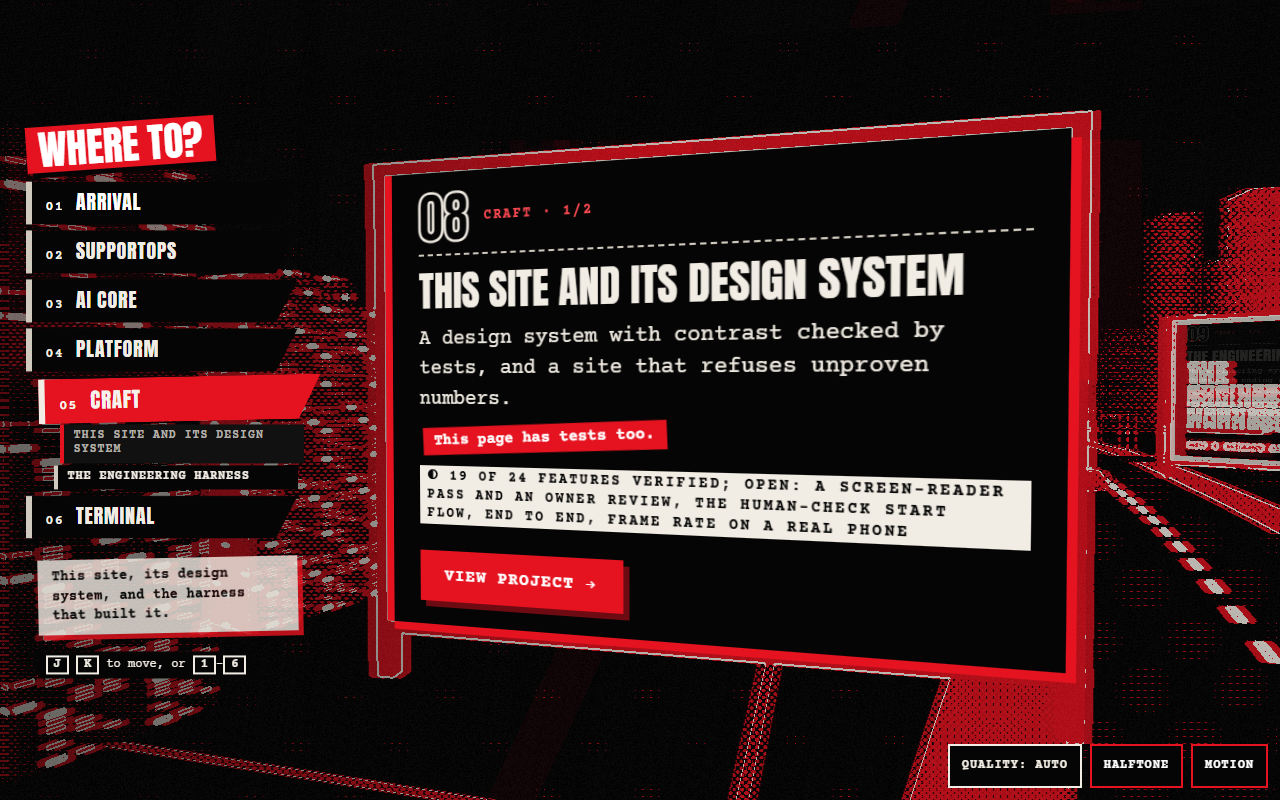
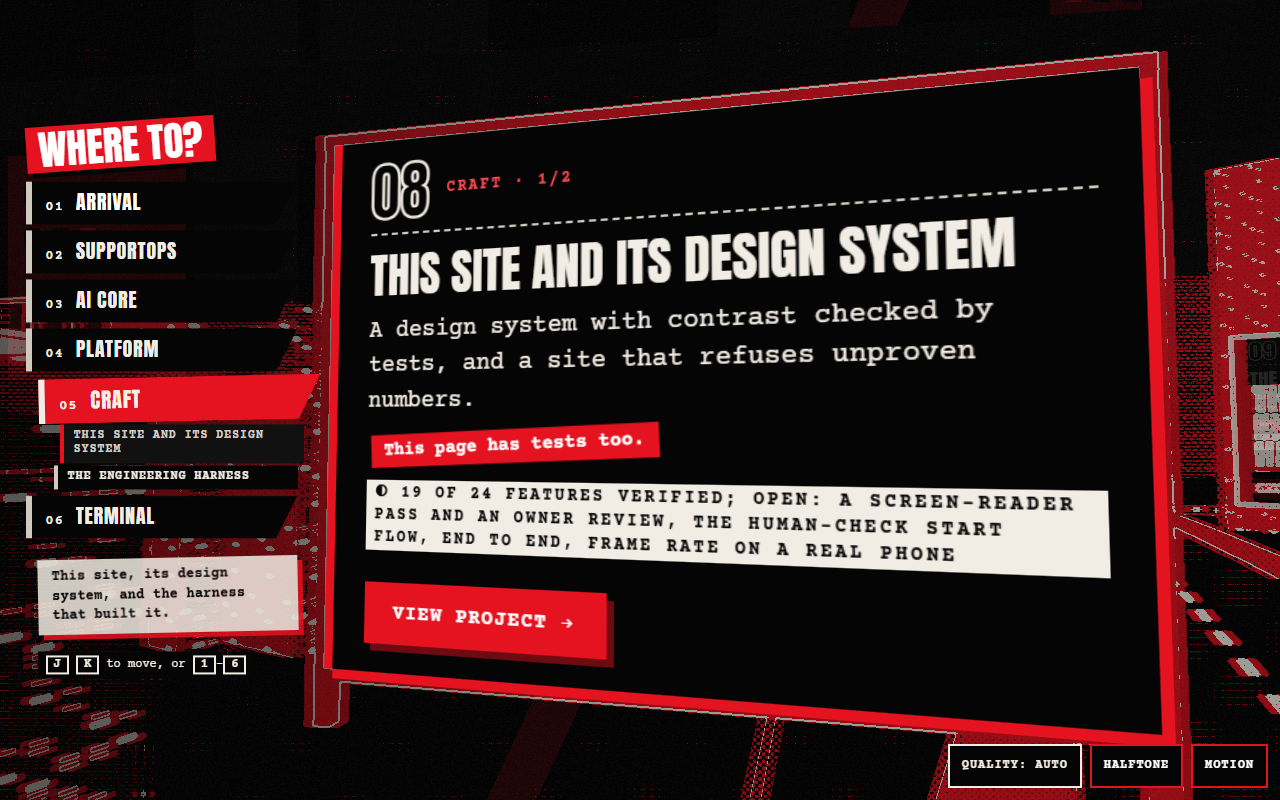
feat(scene): hang the cards on building walls, roofs and posts

diff --git a/src/scene/world.ts b/src/scene/world.ts
@@ -1,7 +1,7 @@
 import * as THREE from "three";
 import { V3, bar, fit, mergeGeometries, tick, tint } from "./geometry";
 import { loadModel } from "./loaders";
-import { BOARD_BEAM_DEPTH, BOARD_BEAM_Z, BOARD_POST_DEPTH, BOARD_POST_Z, ROAD_EXTRA, trainLead } from "./layout";
+import { BOARD_BEAM_DEPTH, BOARD_BEAM_Z, BOARD_POST_DEPTH, BOARD_POST_Z, BOARD_WIDTH, MOUNT_SPEC, ROAD_EXTRA, mountOf, trainLead } from "./layout";
 import { cardSide, type Frame, type Rail } from "./rail";
 import { truckFallback } from "./symbols";
 import type { Palette } from "./tokens";
@@ -47,12 +47,10 @@ export interface World {
 }
 
 /** World width of a board, in units, before it is fitted to its card; the board is never taller than BOARD_MAX_HEIGHT. */
-export const BILLBOARD_WIDTH = 25;
+export const BILLBOARD_WIDTH = BOARD_WIDTH;
 /** Height over width: the card is 640 by 460 px (src/styles/site.css), so the board has the same proportions. */
 const BILLBOARD_RATIO = 460 / 640;
 const BOARD_MAX_HEIGHT = 30;
-/** The board's lower edge above the street. */
-const BOARD_BOTTOM = 2.5;
 
 type Part = THREE.BufferGeometry;
 
@@ -233,6 +231,8 @@ export async function buildWorld(c: WorldContext): Promise<World> {
       const x = f.p.x + f.R.x * s * lat;
       const z = f.p.z + f.R.z * s * lat + (rnd() - 0.5) * 5;
       const ry = yaw(f.T);
+      // A tower must not pierce the building a board hangs on (wall and roof mounts stand beside the avenue ahead of their stop).
+      if (stops.some((_, k) => mountOf(k) !== "post" && cardSide(k) === s && Math.abs(uPick - rail.u(k, 0.45)) * rail.length < 30 + dd / 2)) continue;
       if (o.clear !== false && crossUs.some((cu) => Math.abs(uPick - cu) * rail.length < CROSS_HALF + SIDEWALK + Math.max(dd, 9) / 2 + 3)) continue;
       n += 1;
       if (o.realEvery && (n - 1) % o.realEvery === 0 && landmark(d, x, z, -f.R.x * s, -f.R.z * s, h)) {
@@ -775,26 +775,41 @@ export async function buildWorld(c: WorldContext): Promise<World> {
     group.add(panel, ...posts, ...beams);
     scene.add(group);
     const board: Board = { group, panel, posts, beams, repaint: painted.paint, width: 1, height: 1 };
-    fitBoard(board, BILLBOARD_WIDTH, BILLBOARD_RATIO);
+    const mount = mountOf(k);
+    fitBoard(board, BILLBOARD_WIDTH, BILLBOARD_RATIO, MOUNT_SPEC[mount].bottom, mount);
+    // A wall or a roof mount stands on a building: its footprint is behind the board (local -z is along the avenue, away from the camera).
+    if (mount !== "post") {
+      const bottom = MOUNT_SPEC[mount].bottom;
+      const depth = mount === "roof" ? 16 : 24;
+      const height = mount === "roof" ? bottom : bottom + board.height + (mount === "wall" ? 9 : 22);
+      const back = 1 + depth / 2;
+      const ry = group.rotation.y;
+      solid(stops[k]!.district, board.width + 2, height, depth, anchor.x - Math.sin(ry) * back, 0, anchor.z - Math.cos(ry) * back, ry, mount === "roof" ? grey(0.26) : grey(0.2));
+      // A beacon on the corner of the wall, a red band under the roof board.
+      beacon(anchor.x - Math.sin(ry) * back, height + 0.4, anchor.z - Math.cos(ry) * back);
+    }
     return board;
   });
-  function fitBoard(b: Board, baseWidth: number, ratio: number) {
+  function fitBoard(b: Board, baseWidth: number, ratio: number, bottom: number, mount: "facade" | "wall" | "roof" | "post") {
     // Keep the card's proportions; a tall card makes a narrower board so it never grows past the screen.
     const h = Math.min(BOARD_MAX_HEIGHT, baseWidth * ratio);
     const w = h / ratio;
     b.width = w;
     b.height = h;
-    const mid = BOARD_BOTTOM + h / 2;
+    const mid = bottom + h / 2;
     b.panel.scale.set(w, h, 1);
     b.panel.position.set(0, mid, 0);
+    // Posts run from the ground (post) or from the roof (roof); a wall or facade mount has none, the wall holds the board.
+    const footing = mount === "roof" ? bottom : 0;
     b.posts.forEach((post, i) => {
       const side = i ? 1 : -1;
-      post.scale.set(0.7, BOARD_BOTTOM + h, BOARD_POST_DEPTH);
-      post.position.set(side * (w / 2 + 0.35), (BOARD_BOTTOM + h) / 2, BOARD_POST_Z);
+      post.visible = mount === "post" || mount === "roof";
+      post.scale.set(0.7, bottom + h - footing, BOARD_POST_DEPTH);
+      post.position.set(side * (w / 2 + 0.35), footing + (bottom + h - footing) / 2, BOARD_POST_Z);
     });
     b.beams.forEach((beam, i) => {
       beam.scale.set(w + 1.4, 0.6, BOARD_BEAM_DEPTH);
-      beam.position.set(0, i ? BOARD_BOTTOM + h + 0.3 : BOARD_BOTTOM - 0.3, BOARD_BEAM_Z);
+      beam.position.set(0, i ? bottom + h + 0.3 : bottom - 0.3, BOARD_BEAM_Z);
     });
     b.group.updateMatrixWorld(true);
   }

diff --git a/src/scene/rail.ts b/src/scene/rail.ts
@@ -1,6 +1,6 @@
 import * as THREE from "three";
 import { V3 } from "./geometry";
-import { ROAD_EXTRA } from "./layout";
+import { MOUNT_SPEC, ROAD_EXTRA, boardMid, mountOf } from "./layout";
 
 /**
  * The camera rail. One stop per card; the camera flies a spline that passes exactly through the stops, and a second spline carries the
@@ -50,6 +50,8 @@ export const CARD_HEIGHT = 11.5;
  * across the street instead of standing in a row.
  */
 export const cardSide = (k: number): 1 | -1 => (k % 2 === 0 ? 1 : -1);
+/** Signed lateral distance of stop k's board from the avenue's middle (zero for a board that hangs over the avenue). */
+export const cardLateral = (k: number): number => cardSide(k) * MOUNT_SPEC[mountOf(k)].lateral;
 
 export function createRail(count: number): Rail {
   const n = Math.max(2, count);
@@ -95,8 +97,8 @@ export function createRail(count: number): Rail {
       tan.normalize();
       right.crossVectors(tan, up).normalize();
       // The board's middle (lateral CARD_LATERAL on its side), nudged toward the avenue by LOOK_SHIFT.
-      const lateral = k < n ? cardSide(k) * CARD_LATERAL + LOOK_SHIFT : 0;
-      return V3(g.x + right.x * lateral, CARD_HEIGHT, g.z + right.z * lateral);
+      const lateral = k < n ? cardLateral(k) + LOOK_SHIFT : 0;
+      return V3(g.x + right.x * lateral, k < n ? boardMid(k) : CARD_HEIGHT, g.z + right.z * lateral);
     }),
     false,
     "catmullrom",
@@ -116,8 +118,8 @@ export function createRail(count: number): Rail {
     },
     cardAnchor(k, out, frame) {
       const f = frameOf((k + CARD_AHEAD) / total, frame ?? stopFrame);
-      tmp.copy(f.p).addScaledVector(f.R, CARD_LATERAL * cardSide(k));
-      return out.set(tmp.x, CARD_HEIGHT, tmp.z);
+      tmp.copy(f.p).addScaledVector(f.R, cardLateral(k));
+      return out.set(tmp.x, boardMid(k), tmp.z);
     },
   };
 }

diff --git a/src/scene/city-fixes.test.ts b/src/scene/city-fixes.test.ts
@@ -1,6 +1,6 @@
 import { describe, expect, it } from "vitest";
 import * as THREE from "three";
-import { BOARD_PANEL_Z, ROAD_EXTRA, frameFront, trainLead } from "./layout";
+import { BOARD_PANEL_Z, BOARD_WIDTH, MOUNT_SPEC, ROAD_EXTRA, boardMid, frameFront, mountOf, trainLead } from "./layout";
 import { createRail } from "./rail";
 
 describe("shuttle train", () => {
@@ -47,5 +47,27 @@ describe("rail", () => {
     const end = rail.frameAt(1).p;
     // The camera at the last stop is about ROAD_EXTRA stops of street away from the end of the road.
     expect(pos.distanceTo(end)).toBeGreaterThan(80 * ROAD_EXTRA);
+  });
+});
+
+describe("board mounts", () => {
+  it("hang the cards in more than one kind of place, and not all on posts", () => {
+    const kinds = new Set(Array.from({ length: 10 }, (_, k) => mountOf(k)));
+    expect(kinds.size).toBe(4);
+    expect(Array.from({ length: 10 }, (_, k) => mountOf(k)).filter((m) => m === "post").length).toBeLessThanOrEqual(2);
+  });
+  it("keeps building mounts clear of the avenue", () => {
+    for (const m of ["facade", "wall", "roof"] as const) {
+      expect(MOUNT_SPEC[m].lateral - BOARD_WIDTH / 2 - 1).toBeGreaterThan(12);
+    }
+  });
+  it("points the camera at the middle of each board", () => {
+    const rail = createRail(10);
+    const look = new THREE.Vector3();
+    const pos = new THREE.Vector3();
+    for (let k = 0; k < 10; k += 1) {
+      rail.pose(k, pos, look);
+      expect(look.y).toBeCloseTo(boardMid(k), 5);
+    }
   });
 });

diff --git a/src/scene/layout.ts b/src/scene/layout.ts
@@ -27,3 +27,25 @@ export const frameFront = (): number => Math.max(BOARD_POST_Z + BOARD_POST_DEPTH
 
 /** Stops of plain avenue added after the last stop, so the street goes on instead of ending at a square. */
 export const ROAD_EXTRA = 3;
+
+/** How a stop's board is mounted. The cards hang in different places, not all on posts beside the street. */
+export type Mount = "facade" | "wall" | "roof" | "post";
+const MOUNTS: readonly Mount[] = ["facade", "wall", "roof", "post"];
+export const mountOf = (k: number): Mount => MOUNTS[k % MOUNTS.length]!;
+
+/** A board's size in world units: 30 wide, as tall as the 640 by 460 card. */
+export const BOARD_WIDTH = 30;
+export const BOARD_HEIGHT = (BOARD_WIDTH * 460) / 640;
+
+/**
+ * Where the board's lower edge is above the street, and how far its middle is from the avenue's middle (unsigned; the sign is the side).
+ * facade: on the end wall of a building, at street level. wall: on the same wall, higher up on a tall building.
+ * roof: on top of a low building. post: on two posts beside the street.
+ */
+export const MOUNT_SPEC: Record<Mount, { bottom: number; lateral: number }> = {
+  facade: { bottom: 3, lateral: 29 },
+  wall: { bottom: 8, lateral: 29 },
+  roof: { bottom: 15, lateral: 29 },
+  post: { bottom: 2.5, lateral: 20 },
+};
+export const boardMid = (k: number): number => MOUNT_SPEC[mountOf(k)].bottom + BOARD_HEIGHT / 2;

diff --git a/e2e/city-fixes.spec.ts b/e2e/city-fixes.spec.ts
@@ -43,3 +43,20 @@ test("the street goes on past the last stop and the scene still draws", async ({
   await page.screenshot({ path: `${evidence}/last-stop.png` });
   expect(Number(await canvas.getAttribute("data-at-origin"))).toBe(0);
 });
+
+test("the cards hang in different places: every stop is reachable and drawn, saved as evidence", async ({ page }) => {
+  await page.setViewportSize({ width: 1280, height: 800 });
+  await page.goto("/");
+  const canvas = page.locator("canvas.scene");
+  await expect(canvas).toHaveAttribute("data-scene", "3d", { timeout: 20_000 });
+  for (let k = 1; k <= 9; k += 1) {
+    await page.keyboard.press("j");
+    await expect.poll(() => canvas.getAttribute("data-shown"), { timeout: 8000 }).toBe(String(k));
+    // A key is ignored while a flight lasts, so wait for it to end before the next press.
+    await expect.poll(() => page.evaluate(() => document.documentElement.dataset.flight ?? ""), { timeout: 8000 }).toBe("");
+    await expect(page.locator(".stop-card[data-near='1']")).toHaveCount(1, { timeout: 8000 });
+    await page.waitForTimeout(600);
+    await page.screenshot({ path: `${evidence}/stop-${k}.png` });
+  }
+  expect(Number(await canvas.getAttribute("data-at-origin"))).toBe(0);
+});

diff --git a/src/scene/scene.ts b/src/scene/scene.ts
@@ -388,6 +388,7 @@ export async function start(canvas: HTMLCanvasElement, options: SceneOptions): P
       const hide = () => {
         if (el.dataset.shown !== "0") {
           el.dataset.shown = "0";
+          delete el.dataset.near;
           put(el, "--o", "0");
           el.inert = true;
         }

diff --git a/docs/harness/progress.md b/docs/harness/progress.md
@@ -22,4 +22,4 @@
 - 2026-11-02 flow modal: colagem-ui 0.4.5 adopted (`vendor/`, `docs/harness/sources.lock.json`); a diagram node opens its explanation as a modal, tested at 1280 and 390 px with axe (`e2e/flow-modal.spec.ts`). Three hosted-CI failures in this phase were races or layout changes in tests, not product regressions, except one: Back to the surface landed on the previous stop in 3D (fixed in `SceneHost.tsx`). The public suite tolerates the Turnstile script's own console noise, blob worker and POST, against the deployed site only; the CSP is unchanged (`docs/harness/decisions.md`).
 - 2026-11-02 content review: every route read in EN and PT. Seals reworded per axis, code spans drawn as code, stale claims replaced with new evidence records (service gate, one real triage, Jaeger traces, one Fly task, the deployed suite, Lighthouse medians, phases counted in the repositories), pins refreshed. See `docs/harness/content-review-2026-11-02.md`. Open for the owner: the CV draft notice on Experience.
 
-- 2026-11-06 phase 011 (city fixes): menu follows the camera (`scene-shown`), far menu jumps cut (`scene-cut`) instead of flying through every stop, board frame stays behind the panel, shuttle train no longer jumps at the turnaround, side streets and wall/roof signs added, the avenue continues three stops past the last stop. Unit 81 and e2e green; `check_fast.py` red only on phase 010's uncommitted `scripts/a11y-reader.mjs`. See `.planning/phases/011-city-fixes/VERIFY.md`. Not deployed.
+- 2026-11-06 phase 011 (city fixes): menu follows the camera (`scene-shown`), far menu jumps cut (`scene-cut`) instead of flying through every stop, board frame stays behind the panel, shuttle train no longer jumps at the turnaround, side streets and wall/roof signs added, the avenue continues three stops past the last stop. Unit 84 and e2e (23) green; `check_fast.py` red only on phase 010's uncommitted `scripts/a11y-reader.mjs`. See `.planning/phases/011-city-fixes/VERIFY.md`. Not deployed.

diff --git a/.planning/phases/011-city-fixes/SPEC.md b/.planning/phases/011-city-fixes/SPEC.md
@@ -13,3 +13,10 @@ Source: the owner's review of the deployed 3D home, in their own words (pt-BR, p
 | C7 | The square at the end is lifeless; maybe just continue the street. | The harbour sits 0.55 stops past the last stop. | The avenue continues three more stops past the last stop with towers, cross streets and traffic; the harbour moves to the far end of the road. |
 
 Out of scope: copy changes, new assets, deploy (needs owner go).
+
+## Addendum (owner follow-up)
+
+| # | Complaint | Change | Acceptance |
+| --- | --- | --- | --- |
+| C3b | The lamp posts (not the board posts) stand behind the card but in front of the sign. | Lamps are left out between the camera and a board. | No lamp in the line to a board (e2e screenshots). |
+| C8 | Every section is still a billboard on the street. | Boards use four mounts: facade (street level) and wall (high) on the end wall of a building, on a roof, on posts (`mountOf`). Camera look-at follows each board's height. | `mountOf` yields four kinds, at most 2 of 10 on posts; stop screenshots `stop-1..9.png` show wall and roof mounts. |
